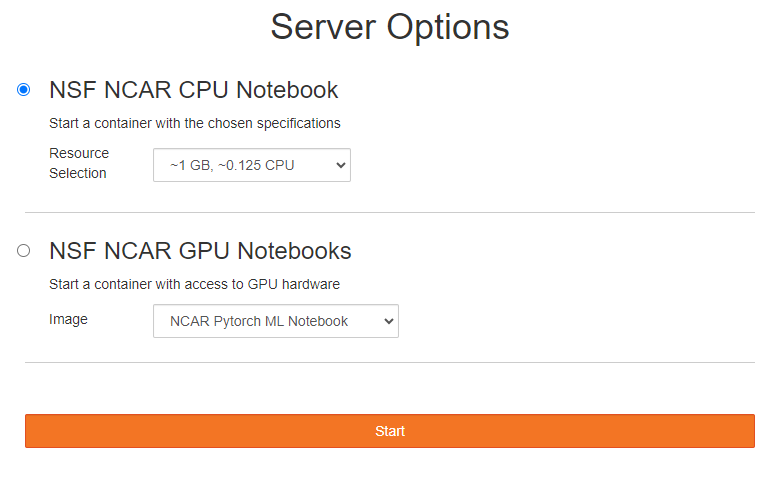
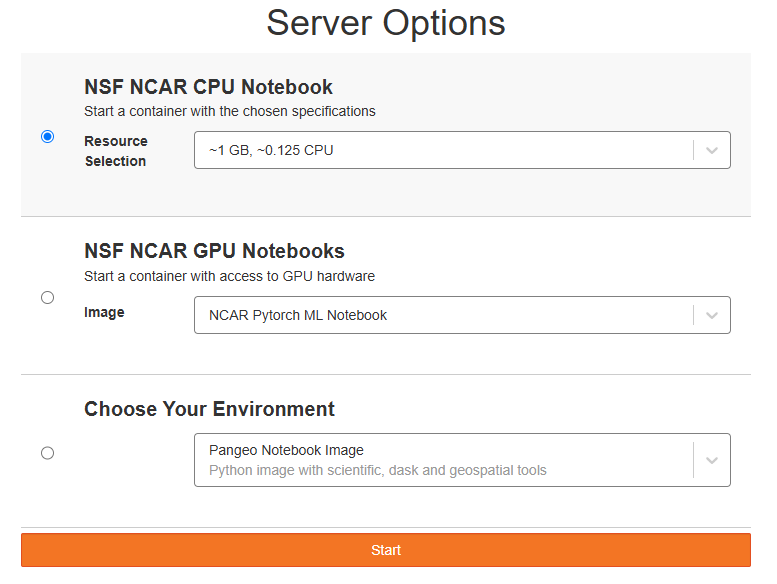
Update to reflect changes in JupyterHub and Binder

diff --git a/docs/compute-systems/cirrus/users/jupyter/jupyterhub.md b/docs/compute-systems/cirrus/users/jupyter/jupyterhub.md
@@ -18,21 +18,7 @@ CIRRUS hosts a JupyterHub instance on Kubernetes (K8s).
 ## Access
 The [JupyterHub Login](https://jupyter.k8s.ucar.edu/) page is the portal to enter and spin up a personal and persistent Jupyter environment. 
 
-Authentication is being handled via GitHub and access is given to members of the following NCAR [team](https://github.com/orgs/NCAR/teams/2i2c-cloud-users). If you do not currently have access you can request to join the GitHub team. Please provide valid justification for your use case. A member of the team will process the request and will be in contact to confirm or coordinate your access.
-
-### Requesting Access
-
-Access is controlled via a GitHub team in the NCAR GitHub Organization . In order to gain access to the NSF NCAR K8s JupyterHub instance you will need to follow this [link to request to join the team](https://github.com/orgs/NCAR/teams/2i2c-cloud-users). In the upper right of the team list there is a button to `Request to join` that can be seen in the image below: 
-
-<img src="../../../media/jupyter/gh-team-join.png" width="133%">
-
-!!! info
-    If you are not part of the NCAR Organization on GitHub you will get a 404 error when trying to navigate to the team page. Access can be granted to existing employees by following this [link to directions](https://ithelp.ucar.edu/plugins/servlet/desk/portal/2/article/87657797/GitHub) 
-
-Once you request to join the team an email will be sent to owners and maintainers of the team notifying them of your request. After verifying that it's appropriate for you to join you will be added to the team and have access to your own environment on the NCAR JupyterHub.
-
-!!! info
-    We will try to verify your request as soon as possible. During normal business hours this should be accomplished within 24 hours. If it's over a weekend or holiday please allow time for the team to review the request as it's outside typical working times. 
+Authentication is being handled via UCAR CIT username and password. Anyone with a UCAR CIT account is able to login.
 
 ## Initial Login
 
@@ -40,14 +26,8 @@ Once logged in to the JupyterHub there are a few details that will make it easie
 
 ### Server Options
 
-Once logged in the first page displayed is titled `Server Options` and is also known as the spawn page. It's from here where the desired environment is selected and spun up for the user. There's a CPU Notebook, with 3 different resource sizes, and 2 GPU Notebook environments available.
+Once logged in the first page displayed is titled `Server Options` and is also known as the spawn page. It's from here where the desired environment is selected and spun up for the user. The available selections are a NSF NCAR CPU Notebook, with 3 different resource sizes, 2 NSF NCAR GPU Notebooks, and a custom environment available. The custom environment enables the ability to launch images that are popular in the scientific research community, provide an image to launch, and building an image on the fly from a git repository, also known as Binder. For more information on using Binder, see [CIRRUS Binder](binderhub.md).
 
 <img src="../../../media/jupyter/server-opts.png"/>
 
 The NSF NCAR images are built and maintained by the CCPP team. Please report any issues you find in them using this [link to Report Issue](https://jira.ucar.edu/secure/CreateIssueDetails!init.jspa?pid=18470&issuetype=10905).
-
-### User Environment
-
-Once logged in the default start up page for everyone looks like this:
-
-<img src="../../../media/jupyter/jhub-main.png"/>

diff --git a/docs/compute-systems/cirrus/users/jupyter/binderhub.md b/docs/compute-systems/cirrus/users/jupyter/binderhub.md
@@ -1,22 +1,16 @@
 # CIRRUS Binder
 
 !!! info
-    Access to the Binder service is controlled via GitHub teams currently. If you already have access to the K8s JupyterHub you have Binder access. Access to the Binder instance can be requested by following this [link to the team in GitHub](https://github.com/orgs/NCAR/teams/2i2c-cloud-users). In the upper right of the team list there is a button to `Request to join`.
+    Access to the Binder service is controlled via UCAR CIT credentials. If you have a UCAR CIT account you already have access to the K8s JupyterHub and Binder access.
 
 [Binder](https://mybinder.readthedocs.io/en/latest/index.html) is a tool that enables sharing of custom computing environments from code repository contents. For instance, if there is a code repository that contains some Jupyter Notebooks that explain how to do something, Binder can be used to launch a compute instance that is configured automatically to run the contents of the repository. The following documentation will cover the Binder instance hosted on the on-prem cloud resources at a high level. Utilize this [link to the Binder official documentation](https://mybinder.readthedocs.io/en/latest/index.html) to learn more about how the service runs or advanced use cases.
 
 ## Web UI
 
-[https://binder.k8s.ucar.edu/](https://binder.k8s.ucar.edu/)
+[https://jupyter.k8s.ucar.edu/](https://jupyter.k8s.ucar.edu/)
 
-Binder is a web based service that enables a code repository link, with information about where to look in the repo, to create an individual compute instance configured to run the repository contents in a JupyterLab environment. Access the Binder Web UI via the link above to be greeted by a page that looks like the following:
+Binder is a web based service that enables a code repository link, with information about where to look in the repo, to create an individual compute instance configured to run the repository contents in a JupyterLab environment. CIRRUS utilizes Binder as a service to integrate it directly in to JupyterHub. Access Binder by logging in to JupyterHub with you UCAR CIT credentials via the link above. Once logged in, select Choose Your Environment and use the dropdown to select Build your own image. It will look like the following:
 
 <img src="../../../media/binder/binder.png"/>
 
-Paste in the code repository URL, the Git ref if not main, and a path to a notebook to launch by default if you want. Click the `launch` button to build a containerized version of the repository, if one doesn't exist, and when complete it will redirect you to a JupyterHub instance that requires Authenticating with GitHub. 
-
-### Create a Binder link
-
-[![Binder](https://binder.k8s.ucar.edu/badge_logo.svg)](https://binder.k8s.ucar.edu/v2/gh/NCAR/cisl-cloud.git/docs?labpath=how-to%2Fbinderhub%2Fbinderhub.ipynb)
-
-There is a dropdown at the bottom of the Build and launch box that contains `.md` and `.rst` code blocks that will provide a launch binder link like the one seen above. This can be used directly to provide a method to easily launch content. Clicking the launch binder button above will launch this notebook directly in to a Jupyterlab session.
+Paste in the code repository URL and the Git ref if not HEAD. Click the `Build image` button to build a containerized version of the repository, if one doesn't exist. When the builds completes select the `Start` button to launch the custom environment. 

diff --git a/docs/compute-systems/cirrus/users/jupyter/jhub-gpu.md b/docs/compute-systems/cirrus/users/jupyter/jhub-gpu.md
@@ -1,8 +1,8 @@
 # Using GPUs
 
-The JupyterHubs offered have GPUs available to provide more processing cores for an expansion of parallel processing capabilities. The NCAR JupyterHub has Nvidia A2 Tensor GPUs while the 2i2c JupyterHub utilizes AWS nodes with Nvidia Tesla T4 GPUs. The GPUs can be utilized by selecting a GPU image from the Server Options like in the image seen below:
+The JupyterHubs offered have GPUs available to provide more processing cores for an expansion of parallel processing capabilities. The NCAR JupyterHub has Nvidia A2 Tensor GPUs. The GPUs can be utilized by selecting a GPU image from the Server Options like in the image seen below:
 
-<img src="https://ncar.github.io/cisl-cloud/_static/K8sJHub/server-opts.png"/>
+<img src="../../media/jupyter/server-opts.png"/>
 
 We currently offer a PyTorch & Tensorflow Jupyter image. Allowing multiple users to access GPU resources at the same time is currently being handled with NVIDIA time slicing. The NVIDIA documentation on this feature at this [link](https://docs.nvidia.com/datacenter/cloud-native/gpu-operator/latest/gpu-sharing.html) provides more detail on the exact mechanism on how this is accomplished. The GPU virtualization layer divides the available GPU resources, including processing cores, memory, and other hardware components, into time slices or time intervals. Each time slice represents a portion of the GPU's processing power and memory. The GPU hypervisor manages the allocation of these time slices to different applications or users. It keeps track of which applications or users have active GPU tasks and assigns time slices to them in a fair and efficient manner. This allows multiple applications or users to share a single GPU, making more efficient use of the hardware and ensuring fair access to GPU resources.
 

diff --git a/docs/compute-systems/cirrus/users/jupyter/conda-envs.md b/docs/compute-systems/cirrus/users/jupyter/conda-envs.md
@@ -19,9 +19,6 @@ It will take a little while to install all the packages and create the environme
 
 The NCAR JupyterHub has a custom conda environment, cisl-cloud-base, as the default base environment. This environment has been put together based on input from users, referencing other production Jupyter images, and requirements that were set to deliver to users. 
 
-!!! info
-    This is just a default environment that provides common packages to try and enable users to get started quickly. Custom environments are supported and documentation on how to implement them can be found [here](./customize/env)
-
 #### List of Packages used
 
 An up to date list of packages and versions can be found directly at this [link to the file in GitHub](https://github.com/NCAR/cisl-cloud/blob/main/configs/jupyter/base-notebook/environment.yml)
